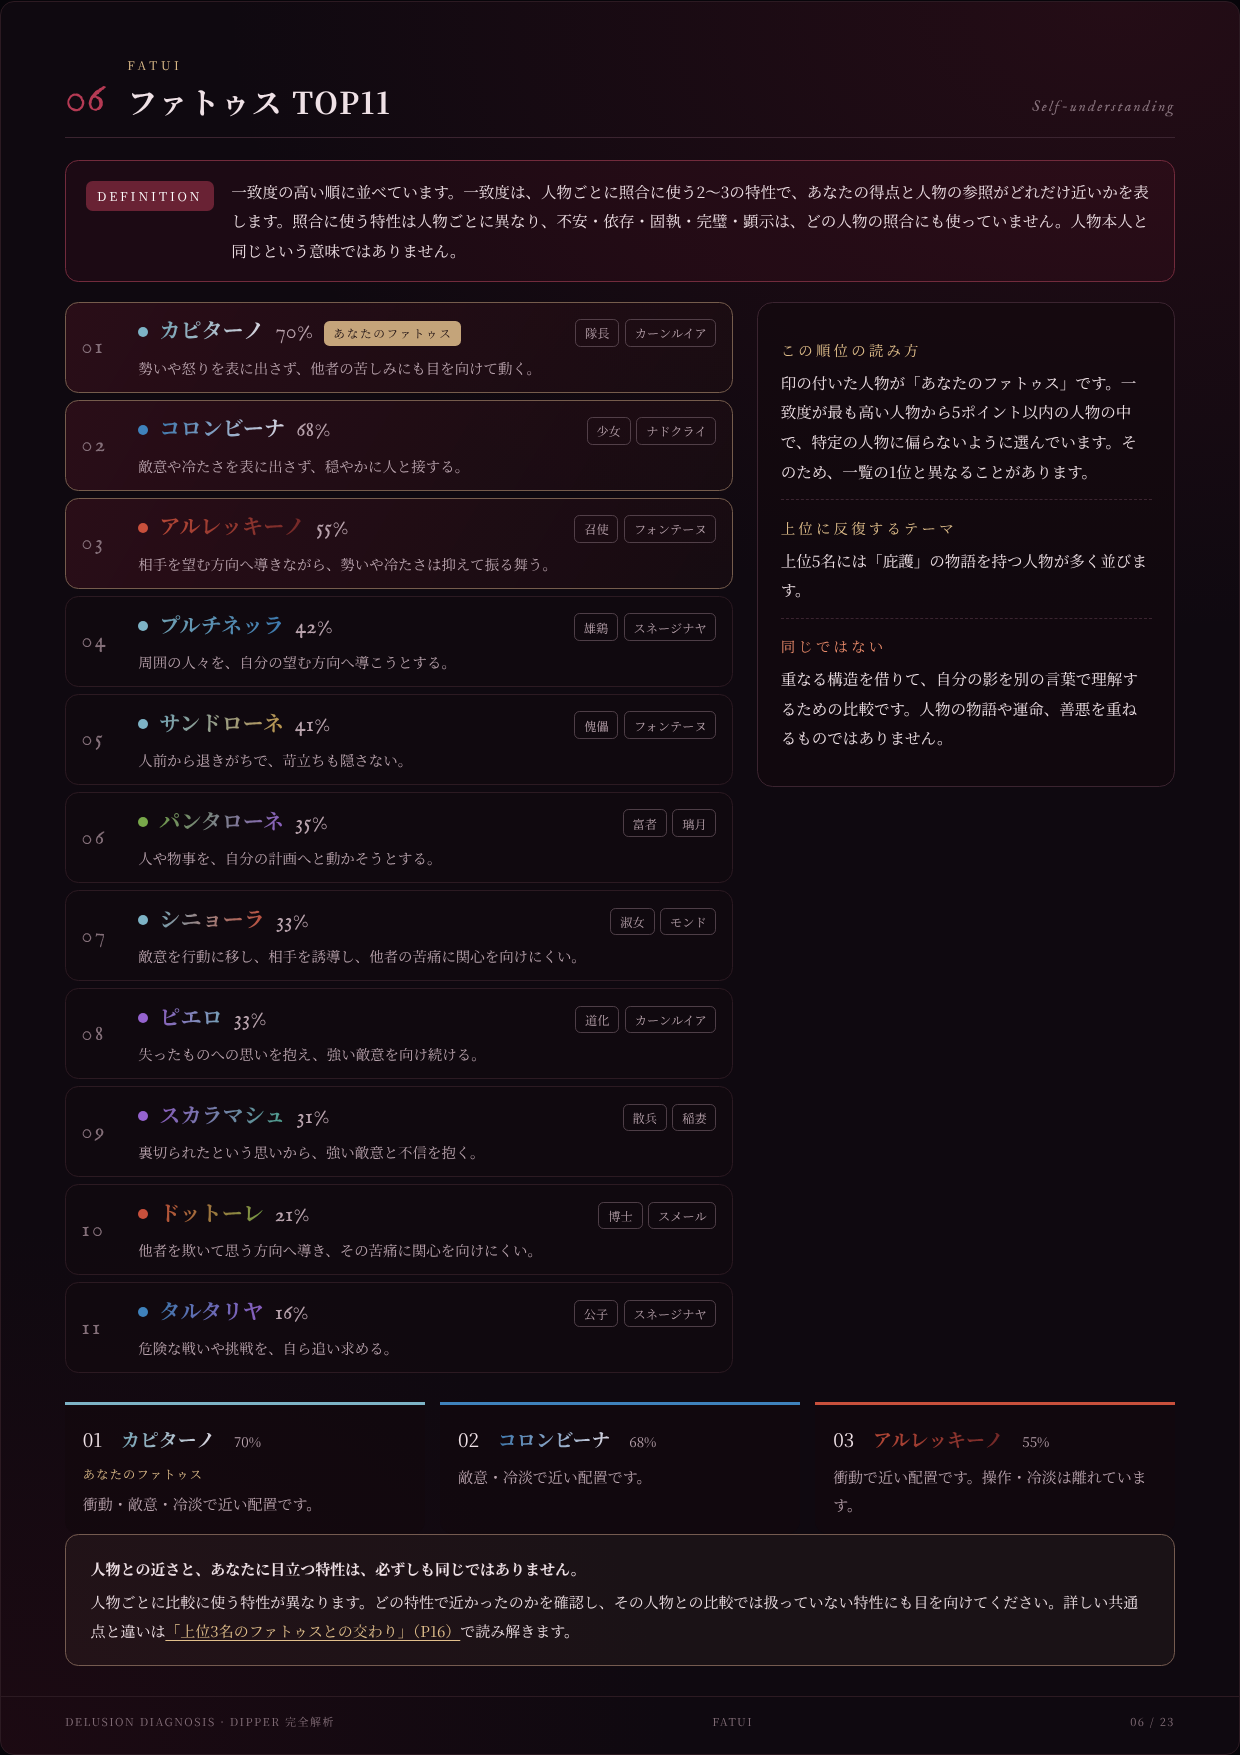
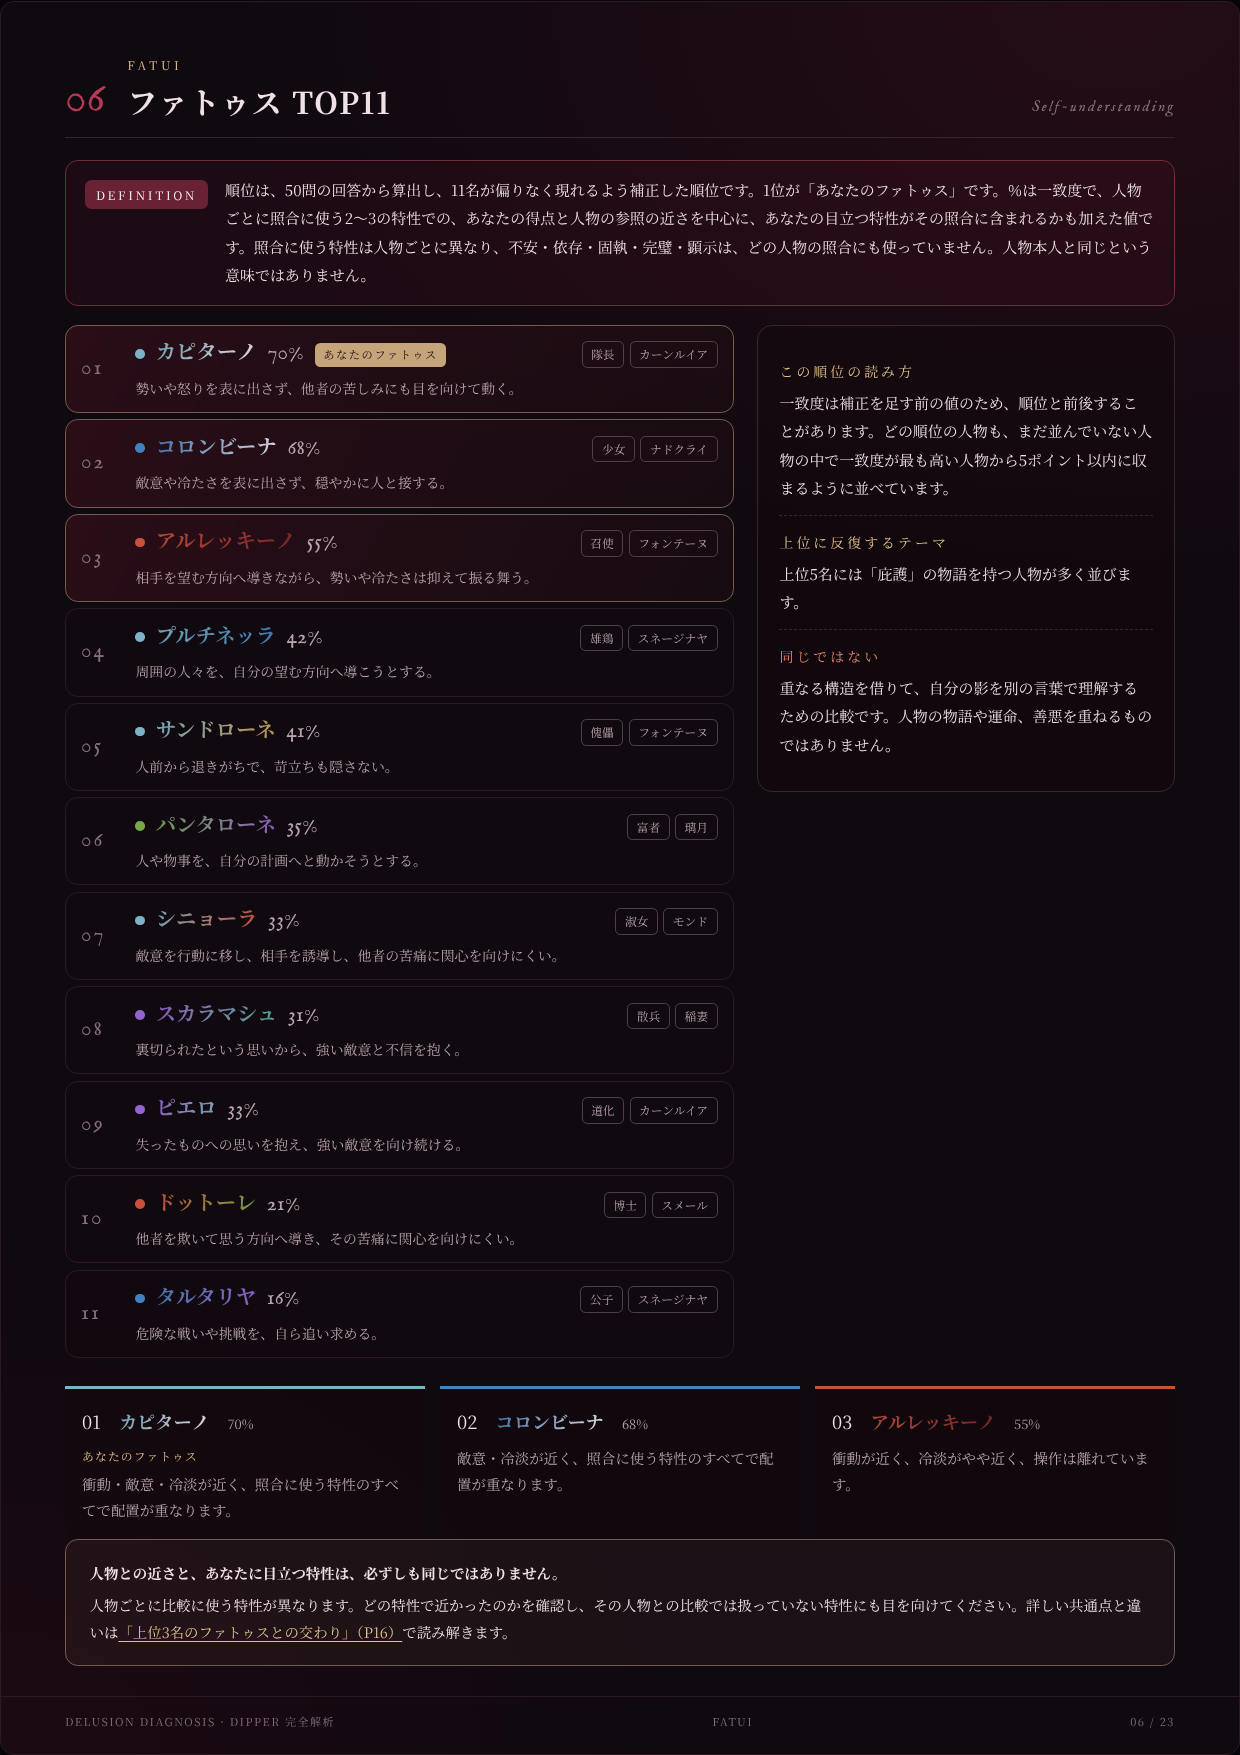
邪眼：ファトゥスの順位を「50問の回答から11名が偏りなく現れるよう補正した順位」に統一（1位＝あなたのファトゥス、どの順位も一致度の最上位から5ポイント以内）。レポート・結果ページ・共有文・OGP・マイページの表記を「あなたのファトゥス」に統一（OGP の版 dti-og-3）。06 下部の要点を本文と同じ閾値で
Claude-Session: https://claude.ai/code/session_01G98Q4k59pxprHjFdWRszS7

diff --git a/jagan/about.html b/jagan/about.html
@@ -26,13 +26,13 @@
     <p>各特性は、回答（1〜5）の平均を0〜100に換算します。項目数が違うため、合計点では比べません。すべての設問に回答が必要で、回答できない設問を中間の値で埋めることはしません。5問ずつ、5段階だけで答えます。</p>
     <p><b>異相</b>は、12特性のうち最も高いもの、<b>邪眼元素</b>は、12特性のうち複数を作者が決めた重みで合わせた7つの得点のうち最も高いものです。どちらも必ず一つずつ選び、その組み合わせを<b>DTI</b>（Delusion Type Indicator／邪眼タイプ指標）の4文字コードと漢字三文字の呼び名（84通り）で示します。例：HYDP｜縋望者（水×依存）。</p>
     <p>最も高い特性が同じ得点で並ぶときは、「とても当てはまる（5）」と答えた割合、次に「やや当てはまる（4）」と答えた割合が高い方を選び、それでも並ぶときは回答から作る固定の値で一つに決めます。邪眼元素が同じ得点で並ぶときも同じ固定の値で決めます。これは結果を一つに示すための選び方で、特性や元素の強さの差を示すものではありません。
-    <p><b>最も近しいファトゥス</b>は、作品の描写を参考に作者が設計した「部分的な参照」（人物ごとに2〜3の特性だけ）との近さで選びます。対応を置けない特性は、中立値で補わず比較に含めません。近さに、人物ごとの出現の偏りを抑える固定の補正を加えて選ぶため、補正を足す前の一致度が最も高い人物とは限りません。表示する一致度には補正を足しません。</p>
+    <p><b>あなたのファトゥス</b>は、作品の描写を参考に作者が設計した「部分的な参照」（人物ごとに2〜3の特性だけ）との近さで選びます。対応を置けない特性は、中立値で補わず比較に含めません。11名が偏りなく現れるよう、一致度が最も高い人物から5ポイント以内の人物の中で、出現の偏りを抑える固定の補正を加えて順位を決めます。そのため、1位（あなたのファトゥス）は、補正を足す前の一致度が最も高い人物とは限りません。表示する一致度には補正を足しません。</p>
     <p>人工の回答での確認では、11名がおよそ均等に出るよう補正を調整しています。実際の利用者で同じ割合になる保証はなく、人数や時刻でその場の結果を入れ替えることはありません。同じ回答には、いつでも同じ結果を返します。人物の比較に使える特性の差が小さい回答は、人物の判定を保留します。</p>
   </section>
   <section class="jg-card">
     <h2 class="jg-h3">保存・共有について</h2>
     <p>回答は、診断中と結果の再表示のために、この端末（ブラウザ）に一時的に残ります。マイページ保存は、ログインしたあなたが押したときだけ行い、回答と、保存時の版での結果を保存します。</p>
-    <p>X共有・共有ページには、邪眼元素・異相・DTIコードと呼び名・最も近しい人物・一致率だけを載せます（人物の判定を保留した結果は人物を載せません）。回答と12特性のスコアは載せません。共有のURLには結果の表示に必要な値だけが入っているため、URLを知っている人は誰でも同じ共有ページを開けます（取り消しはできません）。</p>
+    <p>X共有・共有ページには、邪眼元素・異相・DTIコードと呼び名・あなたのファトゥスと一致度だけを載せます（人物の判定を保留した結果は人物を載せません）。回答と12特性のスコアは載せません。共有のURLには結果の表示に必要な値だけが入っているため、URLを知っている人は誰でも同じ共有ページを開けます（取り消しはできません）。</p>
   </section>
 </main>
 <footer class="jf">

diff --git a/jagan/index.html b/jagan/index.html
@@ -6,7 +6,7 @@
 <meta name="robots" content="noindex,nofollow">
 <meta name="theme-color" content="#09070B">
 <title>邪眼診断｜あなたの願いは、どんな深淵を映すのか。</title>
-<meta name="description" content="独自の50問から、あなたの深淵を映す邪眼元素と型、最も近しいファトゥスを示す自己理解コンテンツ。医療診断ではありません。">
+<meta name="description" content="独自の50問から、あなたの深淵を映す邪眼元素と型、あなたのファトゥスを示す自己理解コンテンツ。医療診断ではありません。">
 <meta property="og:type" content="website">
 <meta property="og:title" content="邪眼診断">
 <meta property="og:description" content="あなたの願いは、どんな深淵を映すのか。">
@@ -39,7 +39,7 @@
         <div class="jt-spark" aria-hidden="true"></div>
         <p class="jt-desc jp">
           心の奥には、ふだんは見せない影がある。<br>
-          50の問いに答えることで、あなたの<strong class="k-el">邪眼元素（心の影の象徴）</strong>と<strong class="k-ty">異相（影の現れ方）</strong>、そして<strong class="k-fa">最も近しいファトゥス</strong>が映し出される。
+          50の問いに答えることで、あなたの<strong class="k-el">邪眼元素（心の影の象徴）</strong>と<strong class="k-ty">異相（影の現れ方）</strong>、そして<strong class="k-fa">あなたのファトゥス</strong>が映し出される。
           <br><span class="theory-line">パーソナリティの特性研究（DSM-5の代替モデル・PID-5）を参考にした、自己理解のための診断。</span>
           <span class="en">Everyone carries a shadow. 50 questions to reveal your Delusion element, the shape your shadow takes, and the Fatui Harbinger closest to you — a self-understanding diagnosis informed by research on personality trait models (DSM-5 alternative model, PID-5). Not a clinical assessment.</span>
         </p>

diff --git a/mypage.html b/mypage.html
@@ -2737,7 +2737,7 @@ function mpJaganVizHtml(r) {
     const tone = r.fatui.tone || { base: mpElText(r.el), ring: [mpElText(r.el), mpElText(r.el)], text: [mpElText(r.el), mpElText(r.el)] };
     const nameStyle = awake ? `background-image:linear-gradient(100deg, ${tone.text[0]}, ${tone.text[1]});-webkit-background-clip:text;background-clip:text;color:transparent` : `color:${tone.base}`;
     ring = `
-      <div class="mp-ring" style="--rc:${tone.base}" role="img" aria-label="最も近しいファトゥス ${r.fatui.name} 一致度${r.fatui.match}%">
+      <div class="mp-ring" style="--rc:${tone.base}" role="img" aria-label="あなたのファトゥス ${r.fatui.name} 一致度${r.fatui.match}%">
         ${mpRingSvg(r.fatui.match, tone.base, tone.ring)}
         <span class="lbl">FATUI</span>
         <span class="who" style="${nameStyle}">${r.fatui.name}</span>
@@ -2769,7 +2769,7 @@ function mpJaganLockedHtml(r, where) {
     <div class="mp-lockbox">
       <div class="mp-seen">
         <div class="mp-seen-title">すでに見えているもの</div>
-        <ul class="mp-seen-list"><li>邪眼元素・異相・DTI</li><li>最も近しいファトゥス1名</li></ul>
+        <ul class="mp-seen-list"><li>邪眼元素・異相・DTI</li><li>あなたのファトゥス1名</li></ul>
       </div>
       <div class="mp-locked-title">まだ読み解いていないもの</div>
       ${MP_JG_LOCKED.map(([t, cap, d]) => `<div class="mp-locked-row" data-domain="${d}"><span class="txt"><span class="t">${t}</span><span class="cap">${cap}</span><span class="ghost" aria-hidden="true"></span></span></div>`).join('')}

diff --git a/js/jagan-mypage.js b/js/jagan-mypage.js
@@ -18,7 +18,7 @@
   var SCHEMA = 'jagan-result-3';
   // 共有の URL（jagan/engine/runtime.mjs の shareQuery と同じ。テストで一致を確かめる）
   var SHARE_PATH = '/jagan/share';
-  var OG_DESIGN_VERSION = 'dti-og-2';
+  var OG_DESIGN_VERSION = 'dti-og-3';
   // 色（jagan/site-copy.mjs の ISOU_COLOR・ELEMENT_COLOR・CHARACTER_ELEMENTS と同じ値。テストで一致を確かめる）
   var ISOU_COLOR = { ANX: '#B59AD8', SEP: '#7FA7D8', SUS: '#9FB0C8', WDR: '#8FC0D0', IMP: '#E0A050', PSV: '#B8A27A', PRF: '#D8C27A',
     HOS: '#E0694F', ATT: '#E08AA8', MAN: '#C88AD8', RSK: '#E07A5A', CAL: '#9AA7B5' };
@@ -221,7 +221,7 @@
   function shareTextOf(s, url) {
     var h = s.headline || {};
     var head = '私の結果は【' + h.element + ' × ' + h.type + '】';
-    var fat = s.character ? '\n最も近しいファトゥス：' + s.character.name + '（' + s.character.match + '%一致）' : '';
+    var fat = s.character ? '\nあなたのファトゥス：' + s.character.name + '（' + s.character.match + '%一致）' : '';
     var tags = ['#邪眼診断', '#' + h.code].concat(s.character ? ['#' + s.character.name] : []).join(' ');
     return '邪眼診断をやってみました。\n\n' + head + fat + '\n\n' + url + '\n\n' + tags;
   }

diff --git a/docs/jagan/FATUI_BALANCE_REVIEW_20261108.md b/docs/jagan/FATUI_BALANCE_REVIEW_20261108.md
@@ -72,12 +72,17 @@
 - 全体に低い・全体に高い回答では、特定の人物に偏ります（最多 52%／39%）。これは参照値の配置によるもので、均等化では補っていません。参照値を動かして均等にすることもしていません。
 - 同点：補正後の値が同点のときは、回答から決まる固定の順序で一人を選びます（再表示で変わりません）。表示する一致度は丸め前の値で並べ、同じ値は ID 順です。
 
-## 5. 表示方式（変更）
+## 5. 表示方式（2026-11-10 オーナーの意図に合わせて更新）
 
-- 06 TOP11・結果ページの人物一覧は、**表示する一致度（補正前）の高い順**に並べます（丸め前の値で比較）。
-- 均等化の補正は「あなたのファトゥス」1名の選定にだけ使います。一覧では印（あなたのファトゥス）で示し、「一致度が最も高い人物から5ポイント以内の人物の中で、偏らないように選んでいる」と1文で説明します。
-- 補正後の値は、％としては表示しません。
-- 「最も近しい」とは書きません（選んだ人物が一覧の1位とは限らないため）。レポート内は「あなたのファトゥス」に統一しました。結果ページ・共有文・OG画像には「最も近しいファトゥス」が残っています。これは未解決事項です（OG画像の文字データの作り直しが必要）。
+オーナーの意図：50問の回答から算出し、11名が均等に現れる順位を、そのままレポートとXシェアのOGPに使う。
+
+- **順位**：`runtime.mjs` の characterOrder を、均等化した順位にしました。
+  - 1位は「あなたのファトゥス」で、judge の選定と同じ人物です。
+  - 2位以降も同じ規則で並べます。まだ並んでいない人物のうち、一致度が最も高い人物から5ポイント以内の人物の中で、補正後の値が最も高い人物を順に選びます。
+  - この順位を、06 TOP11・16 上位3名（1〜3位）・結果ページ・マイページ・共有文・OGP（1位と一致度）で共通に使います。
+- **一致度（％）**：補正を足す前の値です。順位と前後することがあり（架空の一様回答3,000件で97.7%）、前後の幅は最大5ポイントです。06に「一致度は補正前の値のため、順位と前後することがある」と1文で説明しています。補正後の値は、％としては表示しません。
+- **表記**：順位の1位は、一致度の最も高い人物とは限りません。そのため「最も近しいファトゥス」をやめ、結果ページ・レポート・共有文・共有ページ・OGP・マイページで「あなたのファトゥス」に統一しました。OGPの字形はすでに収録済みだったので、字形データの作り直しは不要でした。OGPのキャッシュを更新するため、デザインの版を dti-og-3 に上げています。
+- **06 下部の要点**：本文と同じ閾値で書いています（差15以内＝近い、16〜25＝やや近い、それ以上＝離れている）。照合に使う特性が1つの人物は、その旨を書き添えます。
 
 ## 6. 変更した箇所（順位補正は廃止していません）
 
